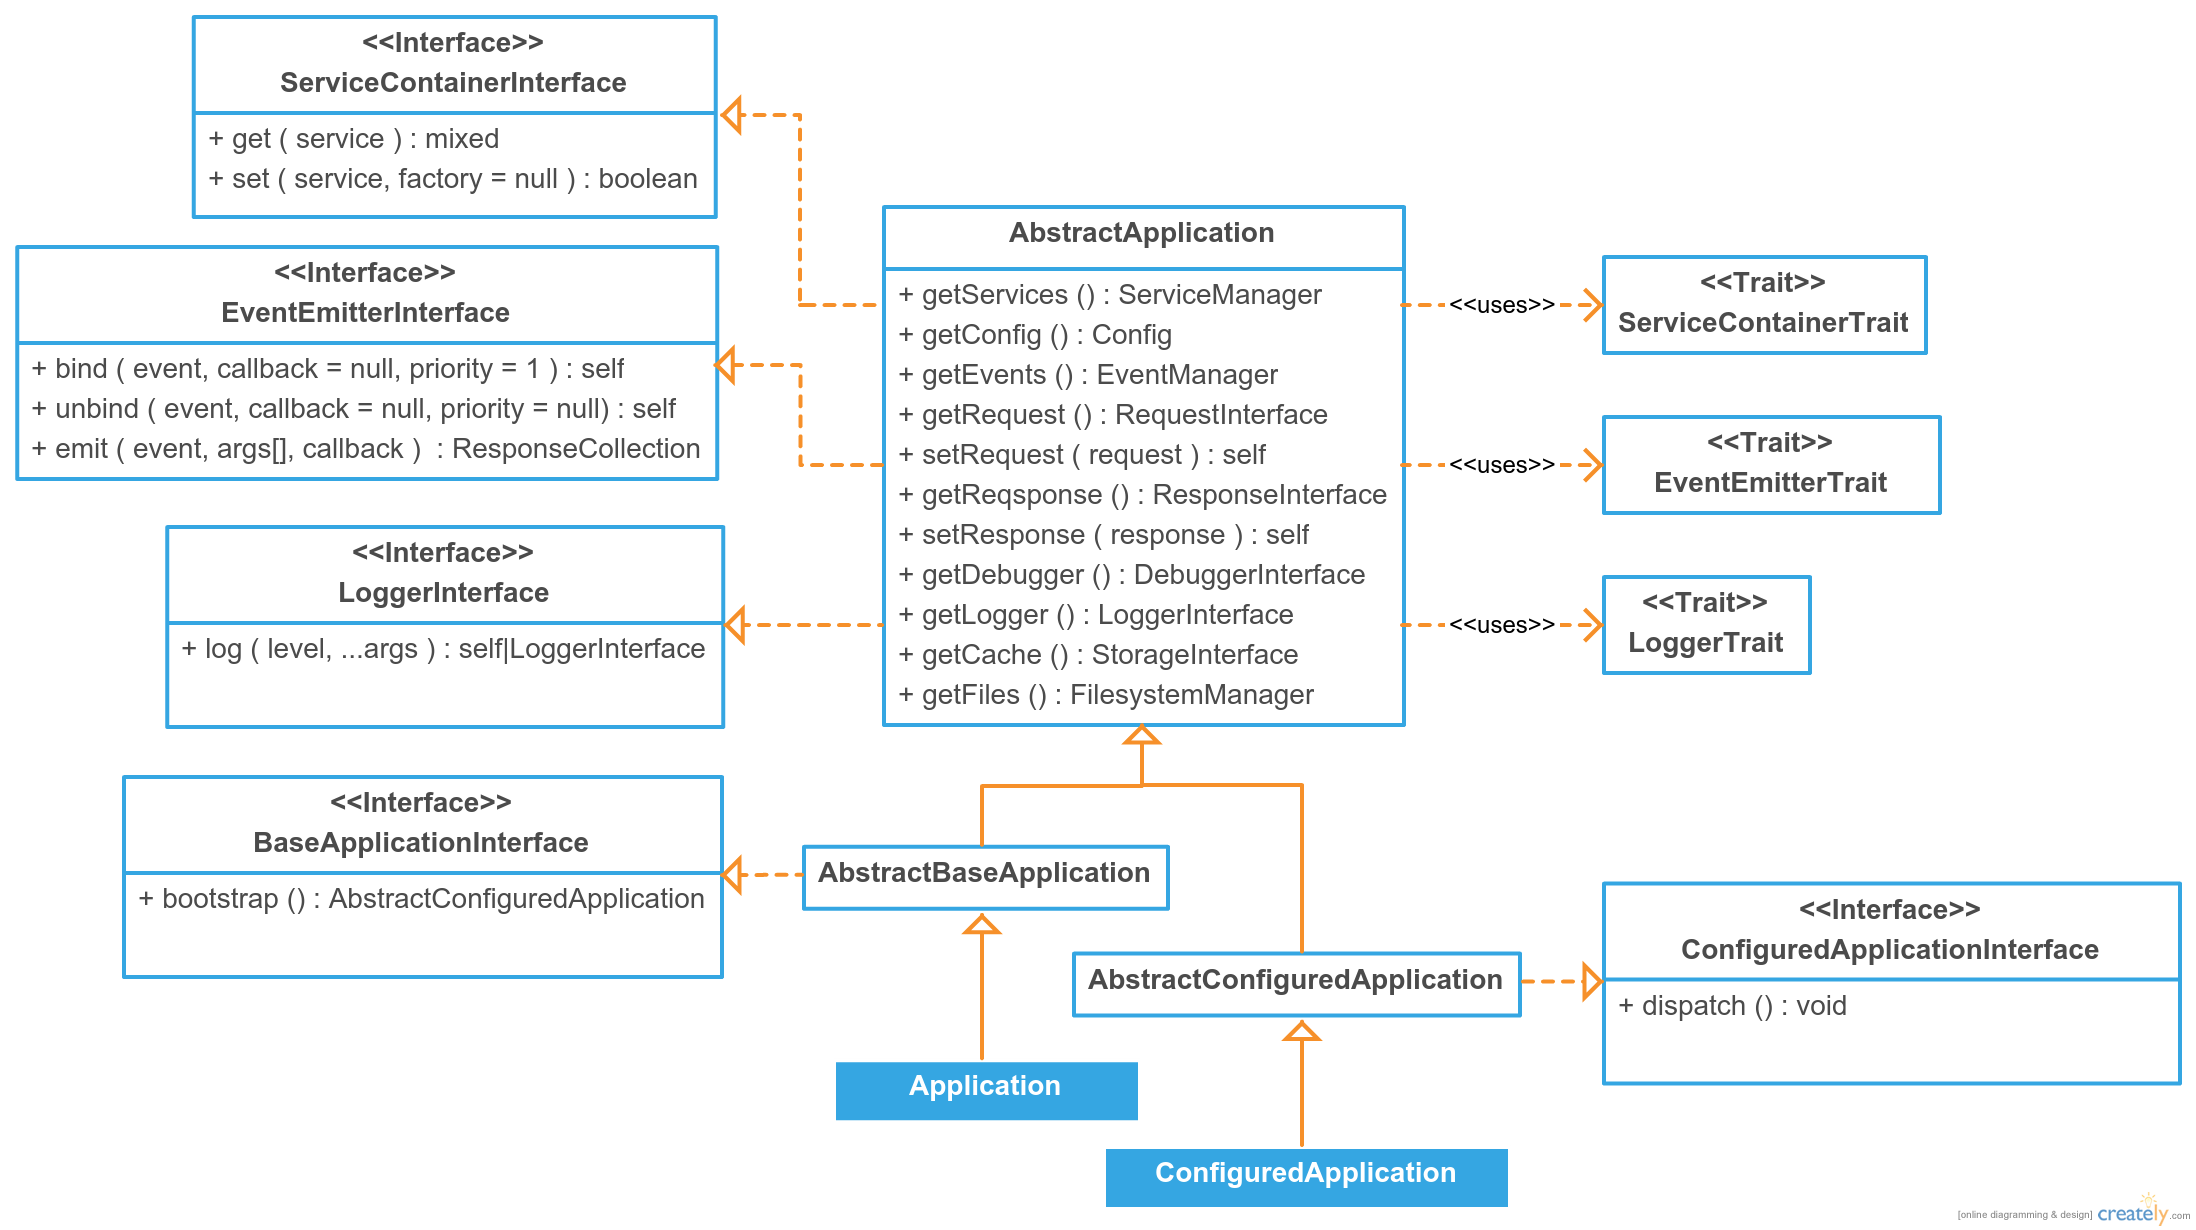
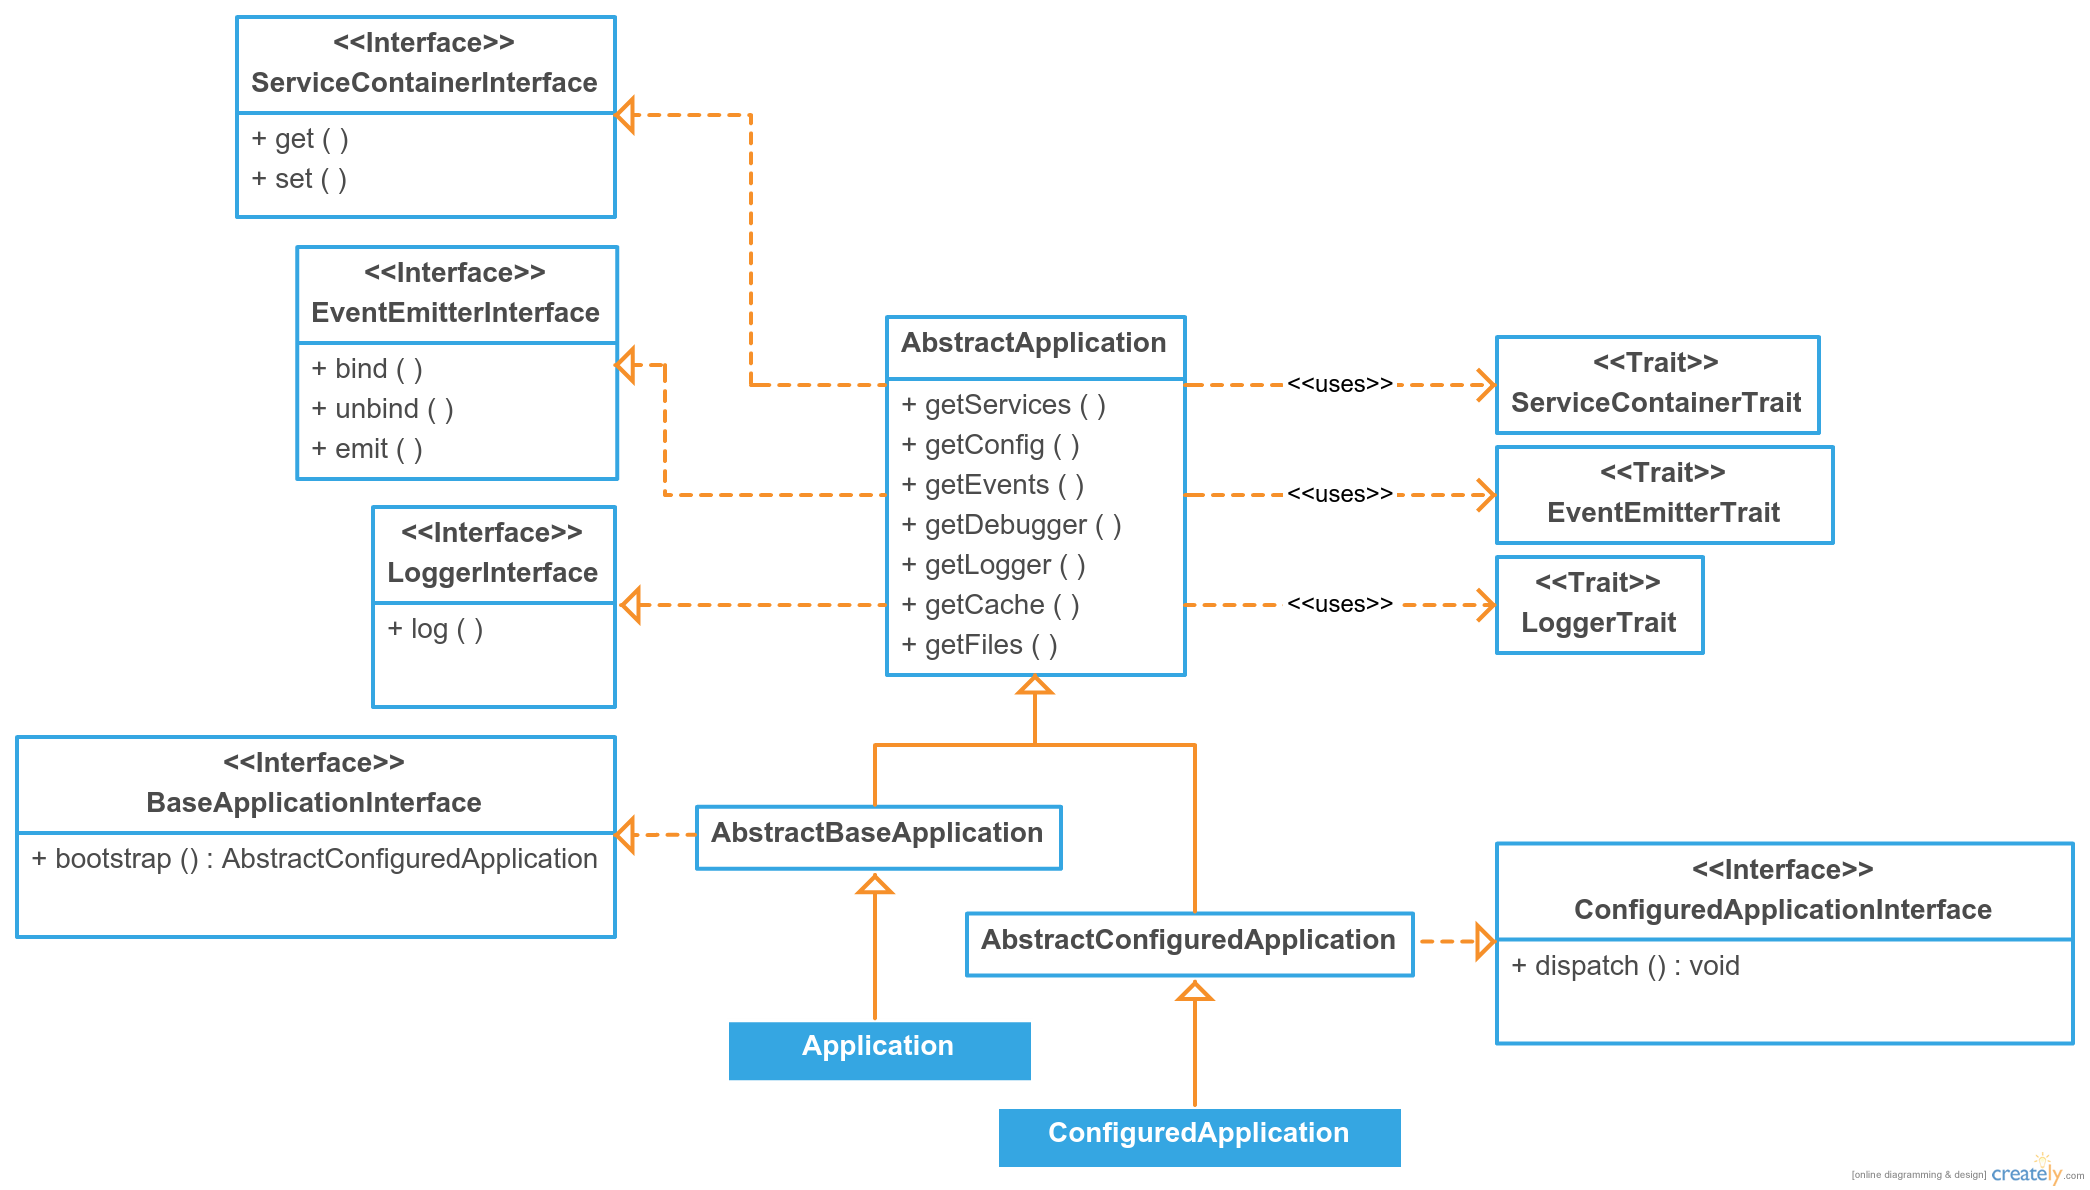
Request and response removed from services

diff --git a/library/WebinoAppLib/Application/AbstractApplication.php b/library/WebinoAppLib/Application/AbstractApplication.php
@@ -13,8 +13,6 @@ use Zend\Cache\Storage\StorageInterface;
 use Zend\Config\Config;
 use Zend\EventManager\EventManager;
 use Zend\ServiceManager\ServiceManager;
-use Zend\Stdlib\RequestInterface;
-use Zend\Stdlib\ResponseInterface;
 
 /**
  * Class AbstractApplication
@@ -42,8 +40,6 @@ abstract class AbstractApplication implements
     private $requiredServices = [
         self::CONFIG,
         self::EVENTS,
-        self::REQUEST,
-        self::RESPONSE,
     ];
 
     /**
@@ -71,16 +67,6 @@ abstract class AbstractApplication implements
      * @var EventManager
      */
     private $events;
-
-    /**
-     * @var RequestInterface
-     */
-    private $request;
-
-    /**
-     * @var ResponseInterface
-     */
-    private $response;
 
     /**
      * @var Bootstrap
@@ -210,38 +196,6 @@ abstract class AbstractApplication implements
     protected function setEvents(EventManager $events)
     {
         $this->events = $events;
-    }
-
-    /**
-     * @return RequestInterface
-     */
-    public function getRequest()
-    {
-        return $this->request;
-    }
-
-    /**
-     * @param object|RequestInterface $request
-     */
-    public function setRequest(RequestInterface $request)
-    {
-        $this->request = $request;
-    }
-
-    /**
-     * @return ResponseInterface
-     */
-    public function getResponse()
-    {
-        return $this->response;
-    }
-
-    /**
-     * @param object|ResponseInterface $response
-     */
-    public function setResponse(ResponseInterface $response)
-    {
-        $this->response = $response;
     }
 
     /**

diff --git a/library/WebinoAppLib/Application/AbstractApplicationInterface.php b/library/WebinoAppLib/Application/AbstractApplicationInterface.php
@@ -2,16 +2,6 @@
 
 namespace WebinoAppLib\Application;
 
-use WebinoAppLib\Service\DebuggerInterface;
-use WebinoAppLib\Service\LoggerInterface;
-use Zend\Cache\Storage\StorageInterface;
-use Zend\Config\Config;
-use Zend\EventManager\EventManager;
-use Zend\ServiceManager;
-use Zend\ServiceManager\ServiceManager as Services;
-use Zend\Stdlib\RequestInterface;
-use Zend\Stdlib\ResponseInterface;
-
 /**
  * Interface AbstractApplicationInterface
  */

diff --git a/docs/source/api/core.rst b/docs/source/api/core.rst
@@ -38,50 +38,6 @@ $app->getEvents()
     $events = $app->getEvents();
 
 
-$app->getRequest()
-------------------
-
-*Getting a request.*
-
-.. code-block:: php
-
-    /** @var \Zend\Stdlib\RequestInterface $request */
-    $request = $app->getRequest();
-
-
-$app->setRequest()
-------------------
-
-*Setting a request.*
-
-.. code-block:: php
-
-    $request = new \Zend\Http\Request;
-    $app->setRequest();
-
-$app->getResponse()
--------------------
-
-*Getting a response.*
-
-.. code-block:: php
-
-    /** @var \Zend\Stdlib\ResponseInterface $response */
-    $response = $app->getResponse($request);
-
-
-$app->setResponse()
--------------------
-
-*Setting a response.*
-
-
-.. code-block:: php
-
-    $request = new \Zend\Http\Response;
-    $app->setResponse($response);
-
-
 $app->getDebugger()
 -------------------
 

diff --git a/docs/source/index.rst b/docs/source/index.rst
@@ -12,13 +12,13 @@
     installation
     basic-usage
 
-    architecture/application-core
+    architecture/core
     architecture/services
-    architecture/listeners
+    architecture/event-system
     architecture/configuration
     architecture/console
 
-    api/accessors
+    api/core
     api/services
     api/events
     api/logging
@@ -27,8 +27,6 @@
 
     services/config
     services/events
-    services/request
-    services/response
     services/debugger
     services/logger
     services/cache

diff --git a/docs/source/architecture/core.rst b/docs/source/architecture/core.rst
@@ -62,12 +62,12 @@ configure event.
 
 **3)** *Handling the client request and sending a response.*
 
-- Calling a ``dispatch()`` method just triggers the dispatch event, if there are not dispatch listeners,
-  nothing will happen.
-
 .. code-block:: php
 
     $app->dispatch();
+
+- Calling a ``dispatch()`` method just triggers the dispatch event, if there are not dispatch listeners,
+  nothing will happen.
 
 
 Application Core Events
